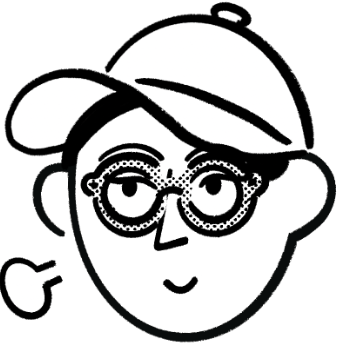
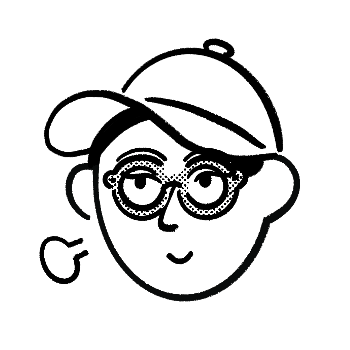
Blinking animation added

Changed region(s): [[0.0, 0.0, 0.9714, 1.0]]

diff --git a/avatar.js b/avatar.js
@@ -1,5 +1,5 @@
 const avatar = document.getElementById('avatar');
-const allAvatars = ["neutral", "neutral_2", "confident", "amused", "thinking"];
+const allAvatars = ["neutral", "neutral_2", "confident", "sad", "thinking", "upset", "naughty"];
 
 // Function to get a random integer between min and max (inclusive)
 function getRandomDelay(min, max) {
@@ -8,34 +8,28 @@ function getRandomDelay(min, max) {
 }
 
 // Function to select a random avatar from the array
-function getRandomAvatar(currentSrc) {
+function getRandomAvatar() {
     let newAvatar;
     let randomIndex;
-    
-    // Use a do-while loop to ensure the NEW avatar is different from the CURRENT one
-    do {
-        randomIndex = Math.floor(Math.random() * allAvatars.length);
-        newAvatar = allAvatars[randomIndex];
-    } while (currentSrc.includes(newAvatar)); 
-    
+    randomIndex = Math.floor(Math.random() * allAvatars.length);
+    newAvatar = allAvatars[randomIndex];
     return newAvatar;
 }
 
 // The main loop function
 function changeAvatar() {
-    // Get the name of the current avatar from the src attribute
-    const currentSrc = avatar.src;
-    
     // 1. Get a random avatar name that's NOT the current one
-    const newAvatarName = getRandomAvatar(currentSrc);
+    const newAvatarName = getRandomAvatar();
     
     // 2. Set the new image source
-    avatar.src = `avatars/${newAvatarName}.png`;
+    avatar.src = `avatars/${newAvatarName}_blinking.png`;
     
-    // 3. Get a random delay (e.g., between 1500ms and 4000ms)
-    const delay = getRandomDelay(2000, 4000);
+    // 3. Get a random blink delay, shorter than changing emote
+    const blinkDelay = getRandomDelay(150, 200);
+    setTimeout(() => {avatar.src = `avatars/${newAvatarName}.png`;}, blinkDelay);
 
     // 4. Restart the loop after the random delay
+    const delay = getRandomDelay(4000, 6000);
     setTimeout(changeAvatar, delay);
 }
 

diff --git a/style.css b/style.css
@@ -202,6 +202,7 @@ li#uncertainty-research:hover, li#uncertainty-research a:hover {
 }
 
 .invitation-card-container {
+    display:none;
     position:fixed;
     bottom:0;
     right: 0%;
